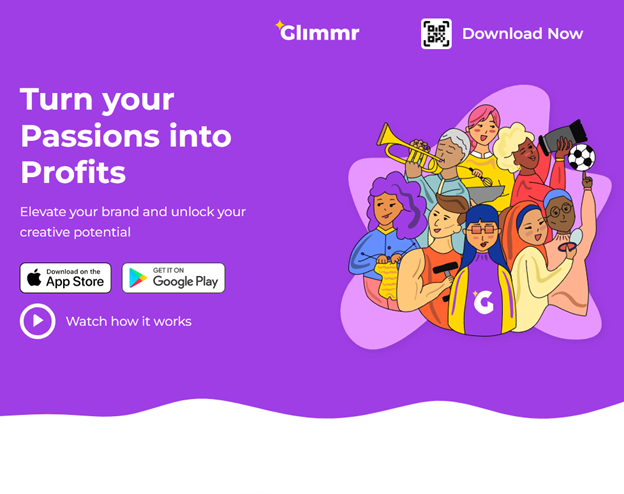
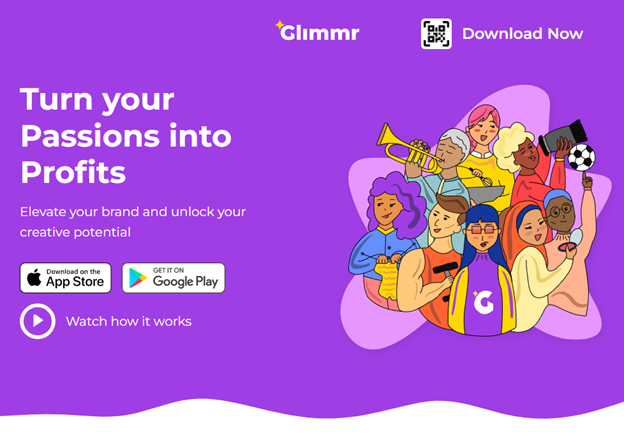
completed darkmode

diff --git a/src/styles/home.scss b/src/styles/home.scss
@@ -170,7 +170,7 @@ Skills
         width: auto;
         height: auto;
       }
-      image-rendering: optimizeQuality;
+      //image-rendering: crisp-edges;
       size: inherit;
     }
   }
